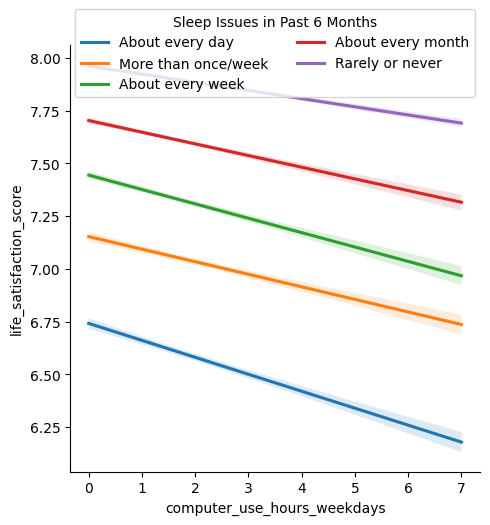
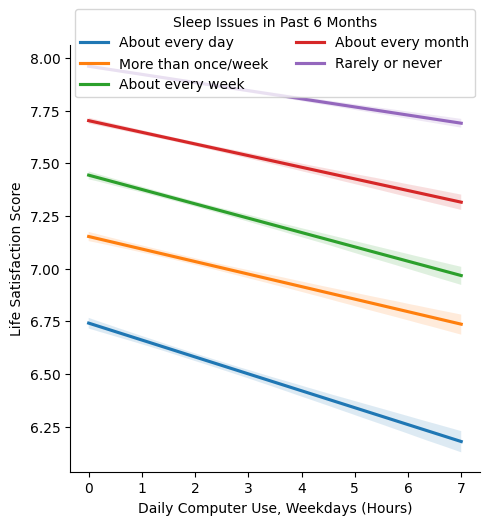
Organized and partially updated READMEs

diff --git a/main.py b/main.py
@@ -11,14 +11,14 @@ import matplotlib.pyplot as plt
 
 def create_dfs():
     '''
-    This method creates all the DataFrames that will be used for analysis
+    This function creates all the DataFrames that will be used for analysis
     '''
     nsch_dfs = {}
     hbsc_dfs = {}
 
-    # for i in range(2016, 2024):
-    #     file_name = f"nsch_{i}e_topical.csv"
-    #     nsch_dfs[i] = pd.read_csv("data_organized/" + file_name)
+    for i in range(2016, 2024):
+        file_name = f"nsch_{i}e_topical.csv"
+        nsch_dfs[i] = pd.read_csv("data_organized/" + file_name)
     for i in range(2002, 2019, 4):
         file_name = f"HBSC{i}.csv"
         hbsc_dfs[i] = pd.read_csv("data_organized/" + file_name)
@@ -27,9 +27,13 @@ def create_dfs():
 
 
 def filter_concat_dfs(dfs, filter_cols, exlude_dfs=None):
+    '''
+    This function filters and merges DataFrames from different years 
+    '''
     # To avoid changing the original DataFrames
     plot_dfs = dfs.copy()
 
+    # Some DataFrames may not have the desired columns
     if exlude_dfs is not None:
         for df_name in exlude_dfs:
             del plot_dfs[df_name]
@@ -40,7 +44,13 @@ def filter_concat_dfs(dfs, filter_cols, exlude_dfs=None):
 
 
 def friendship_vs_screen_time(nsch_dfs):
+    '''
+    This function plots a stacked bar chart to analyze how difficulty making friends varies with screen time
+    '''
     def categorize_screen_time(hours):
+        '''
+        This subfunction is used to categorize screen time
+        '''
         if hours <= 1:
             return "0-1"
         if 2 <= hours <= 3:
@@ -50,6 +60,8 @@ def friendship_vs_screen_time(nsch_dfs):
 
     plot_df = filter_concat_dfs(nsch_dfs, ["Screen_Time_Total", "Difficulty_Making_Friends"])
     plot_df["Screen Time (Hours)"] = plot_df["Screen_Time_Total"].apply(categorize_screen_time)
+
+    # This organizes the legend
     plot_df["Screen Time (Hours)"] = pd.Categorical(
         plot_df["Screen Time (Hours)"], ["0-1", "2-3", "4+"]
     )
@@ -65,9 +77,15 @@ def friendship_vs_screen_time(nsch_dfs):
 
 
 def deep_talk_vs_screen_time(nsch_dfs):
+    '''
+    This function plots a violin chart to analyze the distribution of screen time 
+    for various depths of relations
+    '''
+    # This plot only looks at 2016-2017 data (due to the greater range of screen time data)
     plot_df = filter_concat_dfs(
         nsch_dfs, ["Screen_Time_Total", "Good_Communication_With_Child"], [2000 + i for i in range(18, 24)])
 
+    # Maps numerical labels to strings
     GCWC_map = {
         1: "Very well",
         2: "Somewhat well",
@@ -80,12 +98,15 @@ def deep_talk_vs_screen_time(nsch_dfs):
     plt.gcf().set_size_inches(8, 4)
     plt.title("How Screen Time Varies with Depth of Relations")
     plt.xlabel("Child's Screen Time (Hours)")
-    # Note in report and presentation that this is discussing with parents
     plt.ylabel("How Well Child Discusses Topics That Matter")
     plt.savefig("plots/deep_talk.png", bbox_inches='tight')
 
 
 def health_screen_time_age(nsch_dfs, exclude_dfs, name):
+    '''
+    This function plots a one-way population pyramid (aka grouped bar chart) to analyze how
+    the distribution of screen time across ages differs with mental health conditions
+    '''
     plot_df = filter_concat_dfs(
         nsch_dfs, ["Received_Mental_Health_Treatment", "Screen_Time_Total", "Child_Age_Years"], exclude_dfs)
 
@@ -112,6 +133,11 @@ def health_screen_time_age(nsch_dfs, exclude_dfs, name):
 
 
 def life_sat_screen_time_buffers(hbsc_dfs):
+    '''
+    This function looks at the correlation between life satisfaction and screen time,
+    and how this correlation is greater/lesser in various subgroups
+    '''
+    # Creating number-string label maps
     freq_6mo_map = {
         7: "About every day",
         2.5: "More than once/week",
@@ -119,7 +145,7 @@ def life_sat_screen_time_buffers(hbsc_dfs):
         0.25: "About every month",
         0: "Rarely or never"
     }
-
+    # Here, the buffer variable's name, label, and plot file name is also stored in a dictionary
     buffers_catalysts = {
         ("self_perceived_family_wealth", "Family is Perceived To Be:", "well_off"): {
             1: "Very well off",
@@ -152,6 +178,7 @@ def life_sat_screen_time_buffers(hbsc_dfs):
 
     }
 
+    # Saving a plot for each buffer/catalyst
     for key in buffers_catalysts:
         hue_col, hue_title, file_name = key
         plot_df = filter_concat_dfs(
@@ -170,22 +197,26 @@ def life_sat_screen_time_buffers(hbsc_dfs):
         sns.lmplot(data=plot_df, x="computer_use_hours_weekdays", y="life_satisfaction_score", 
                    hue=hue_col, scatter=False, legend=False, ci=ci_val)
         plt.legend(title=hue_title, loc="upper center", bbox_to_anchor=(0.5, 1.1), ncol=2)
-        plt.savefig(f"plots/buffer_{file_name}.png", bbox_inches="tight")
         plt.xlabel("Daily Computer Use, Weekdays (Hours)")
         plt.ylabel("Life Satisfaction Score")
+        plt.savefig(f"plots/buffer_{file_name}.png", bbox_inches="tight")
         plt.clf()
 
 
 def main():
+    '''
+    This function creates the DataFrames and runs the plotting functions
+    '''
     nsch_dfs, hbsc_dfs = create_dfs()
-    # friendship_vs_screen_time(nsch_dfs)
-    # plt.clf()
-    # deep_talk_vs_screen_time(nsch_dfs)
-    # plt.clf()
-    # health_screen_time_age(nsch_dfs, [2000 + i for i in range(18, 24)], "2016-2017")
-    # plt.clf()
-    # health_screen_time_age(nsch_dfs, [2016, 2017], "2018-2023")
-    # plt.clf()
+    friendship_vs_screen_time(nsch_dfs)
+    plt.clf()
+    deep_talk_vs_screen_time(nsch_dfs)
+    plt.clf()
+    # Looking at the population pyramid separately for 2016-17 and 2018-23 (due to data disparities)
+    health_screen_time_age(nsch_dfs, [2000 + i for i in range(18, 24)], "2016-2017")
+    plt.clf()
+    health_screen_time_age(nsch_dfs, [2016, 2017], "2018-2023")
+    plt.clf()
     life_sat_screen_time_buffers(hbsc_dfs)
 
 

diff --git a/run_tests.py b/run_tests.py
@@ -14,6 +14,9 @@ from cse163_utils import assert_equals
 
 
 def test_update_choropleth():
+    '''
+    This function just tests the correlation function from the interactive Plotly Dash app
+    '''
     test_df = pd.DataFrame({
         "ISO_code": ["AUT", "AUT", "AUT", "BEL", "BEL", "BEL"],
         "fruit_intake_weekly": [1, 2, 3, 1, 2, 3],
